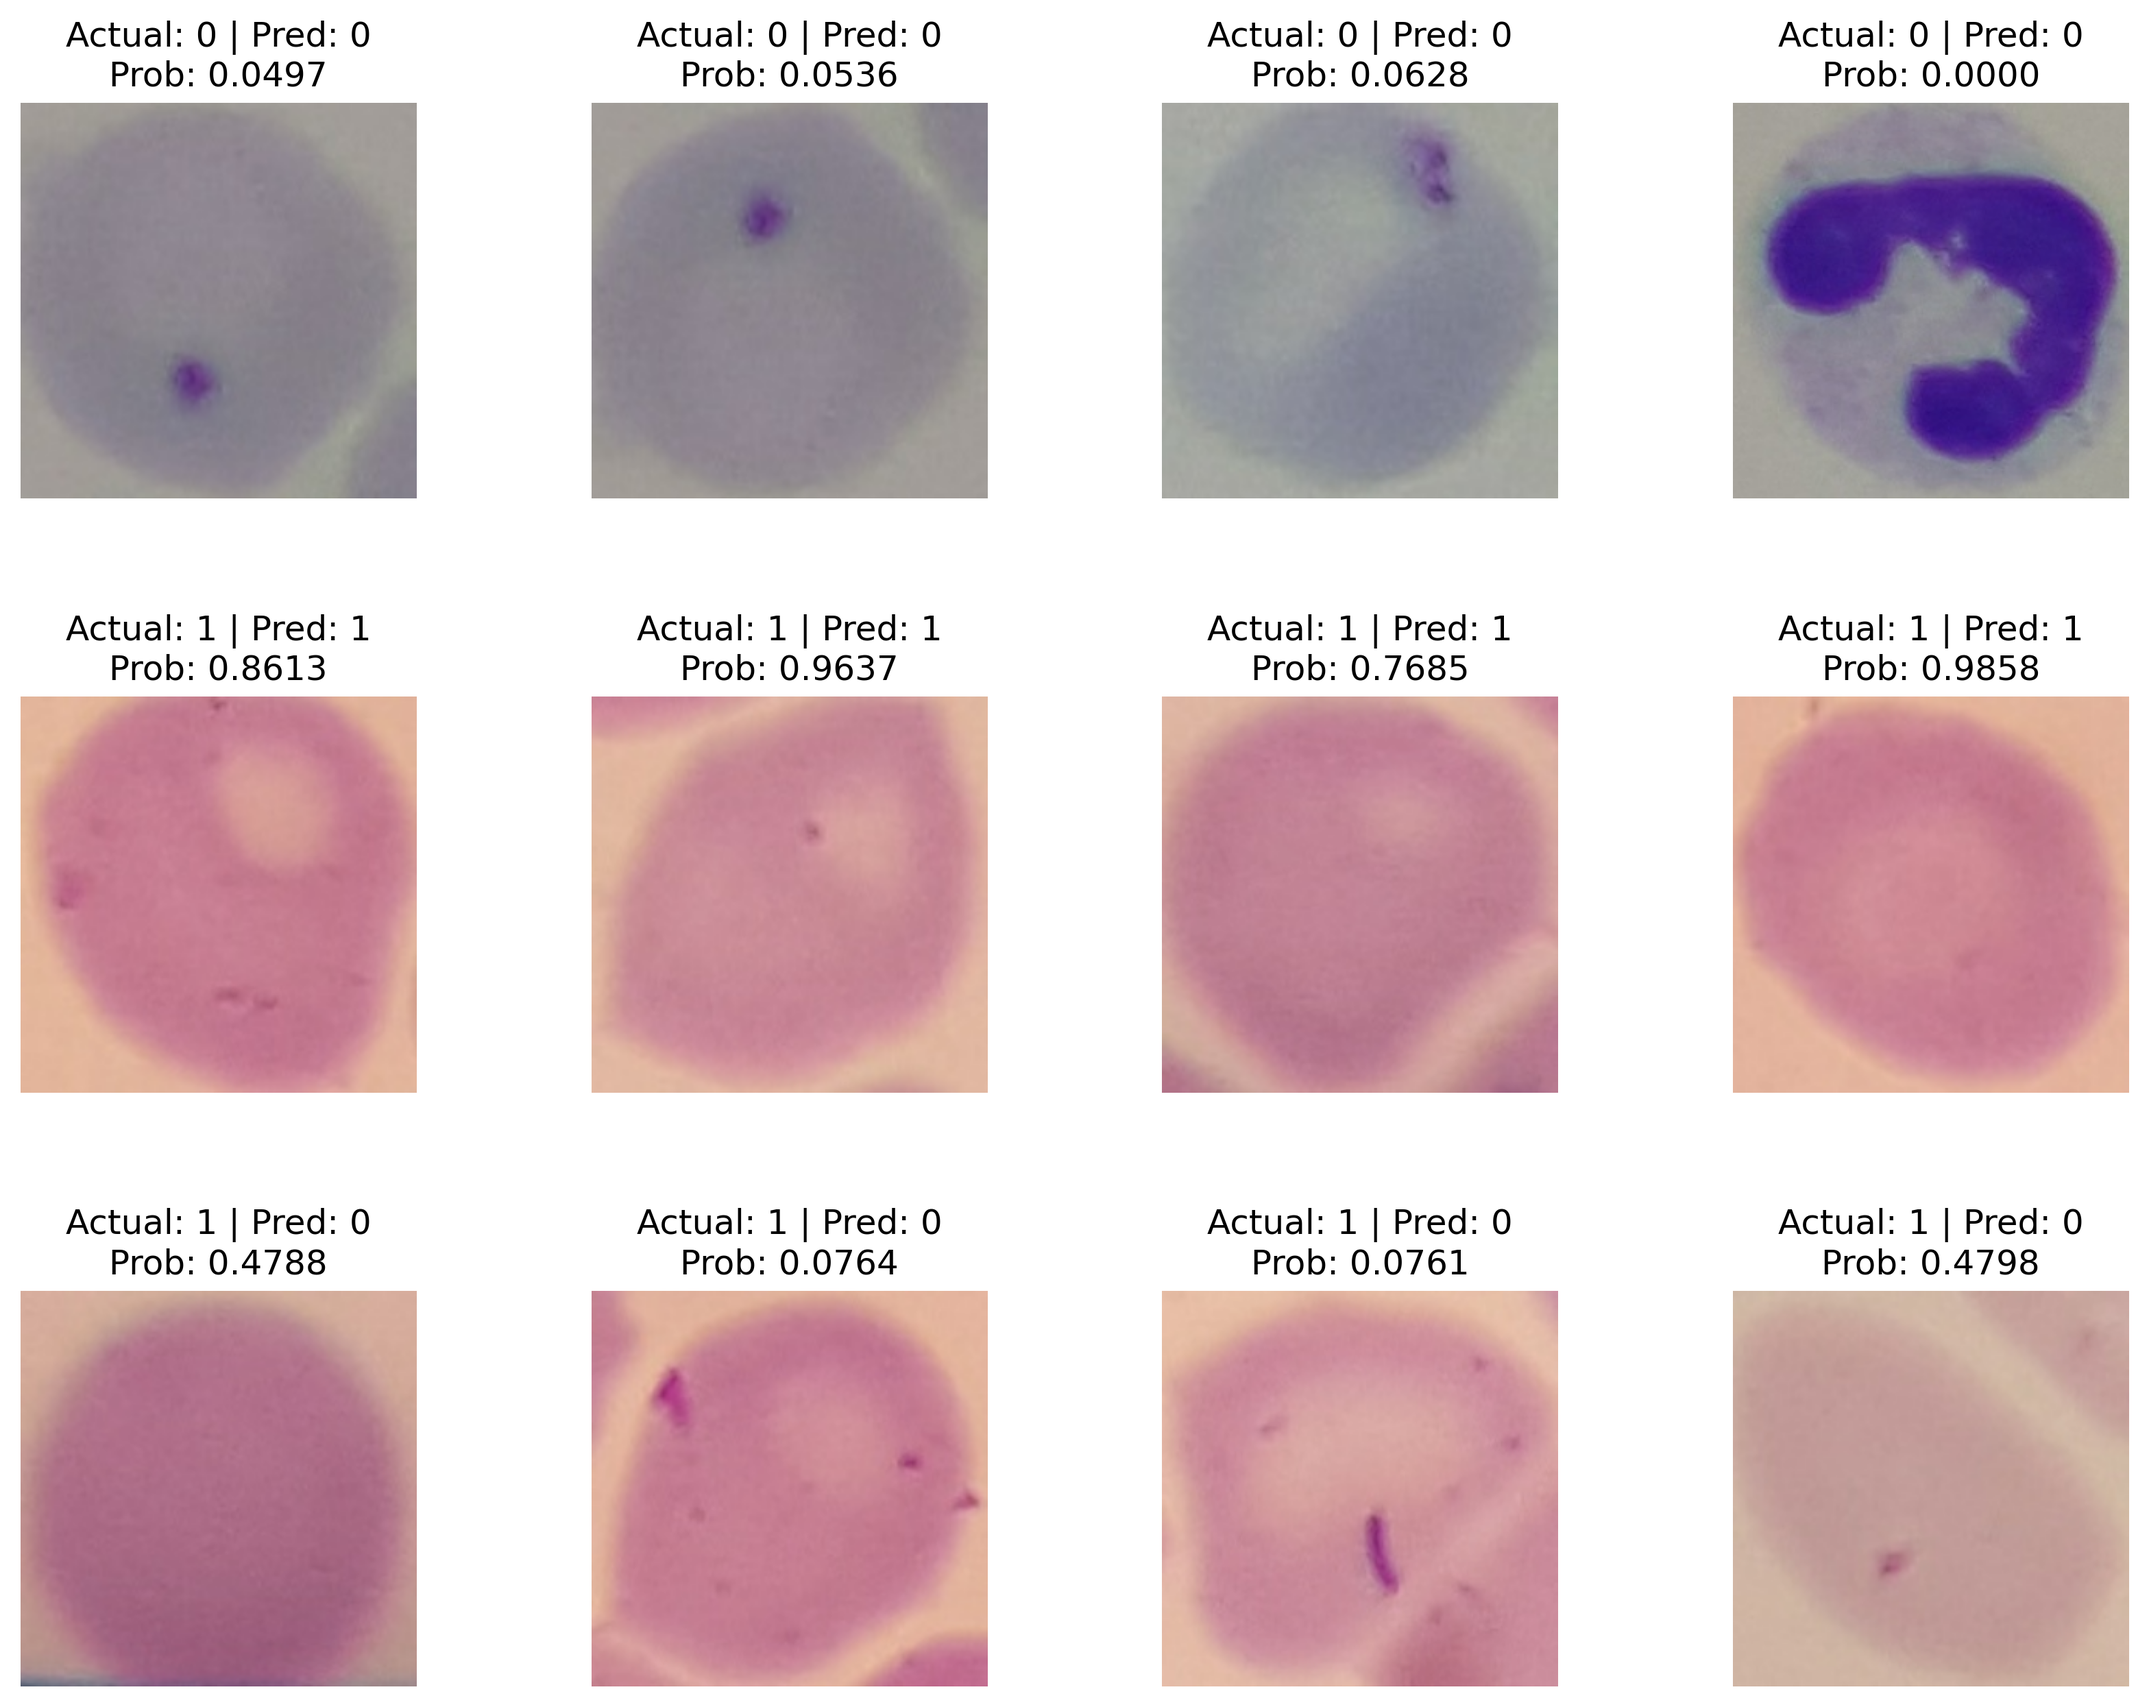
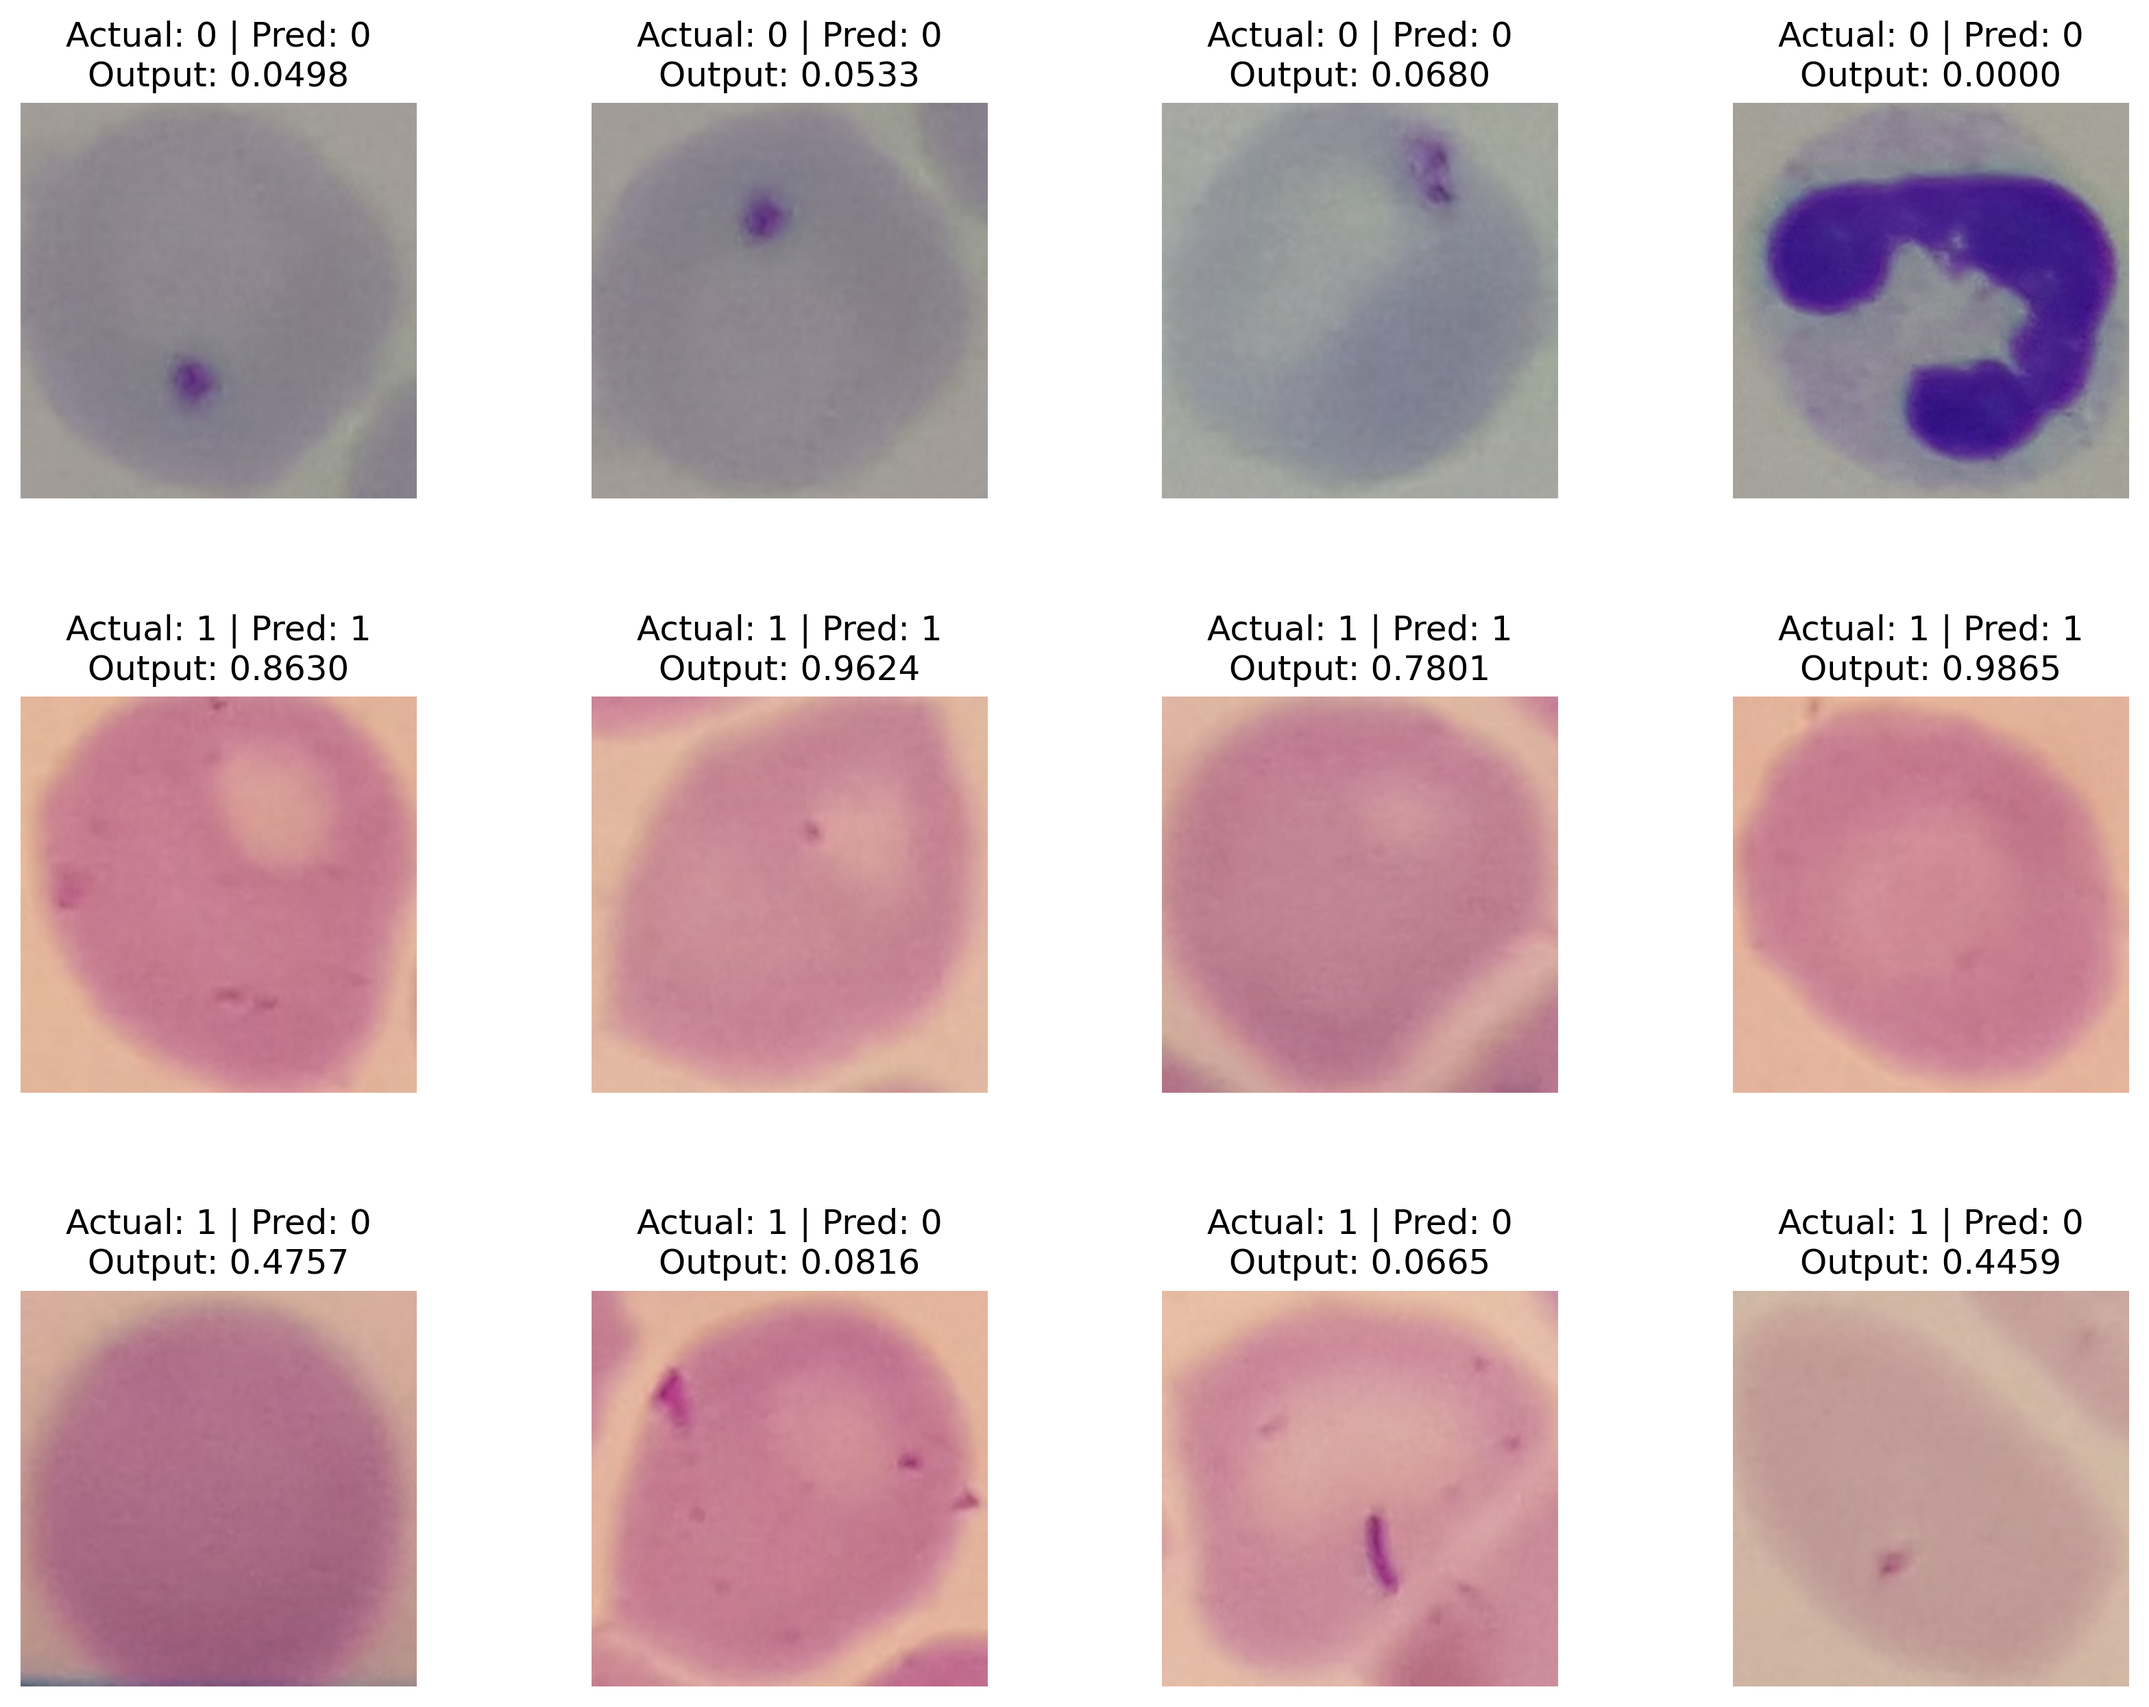
it was not a probability...

diff --git a/PyClassifier/src/visualization.py b/PyClassifier/src/visualization.py
@@ -167,7 +167,7 @@ def plot_prediction_samples(test_set, y_true, y_pred, y_probs):
             ax = plt.subplot(3, 4, row_idx * 4 + col_idx + 1)
             plt.imshow(images[i]) 
             
-            title = f"Actual: {int(y_true[i])} | Pred: {int(y_pred[i])}\nProb: {y_probs[i]:.4f}"
+            title = f"Actual: {int(y_true[i])} | Pred: {int(y_pred[i])}\nOutput: {y_probs[i]:.4f}"
             plt.title(title, fontsize=12)
             plt.axis('off')
             
